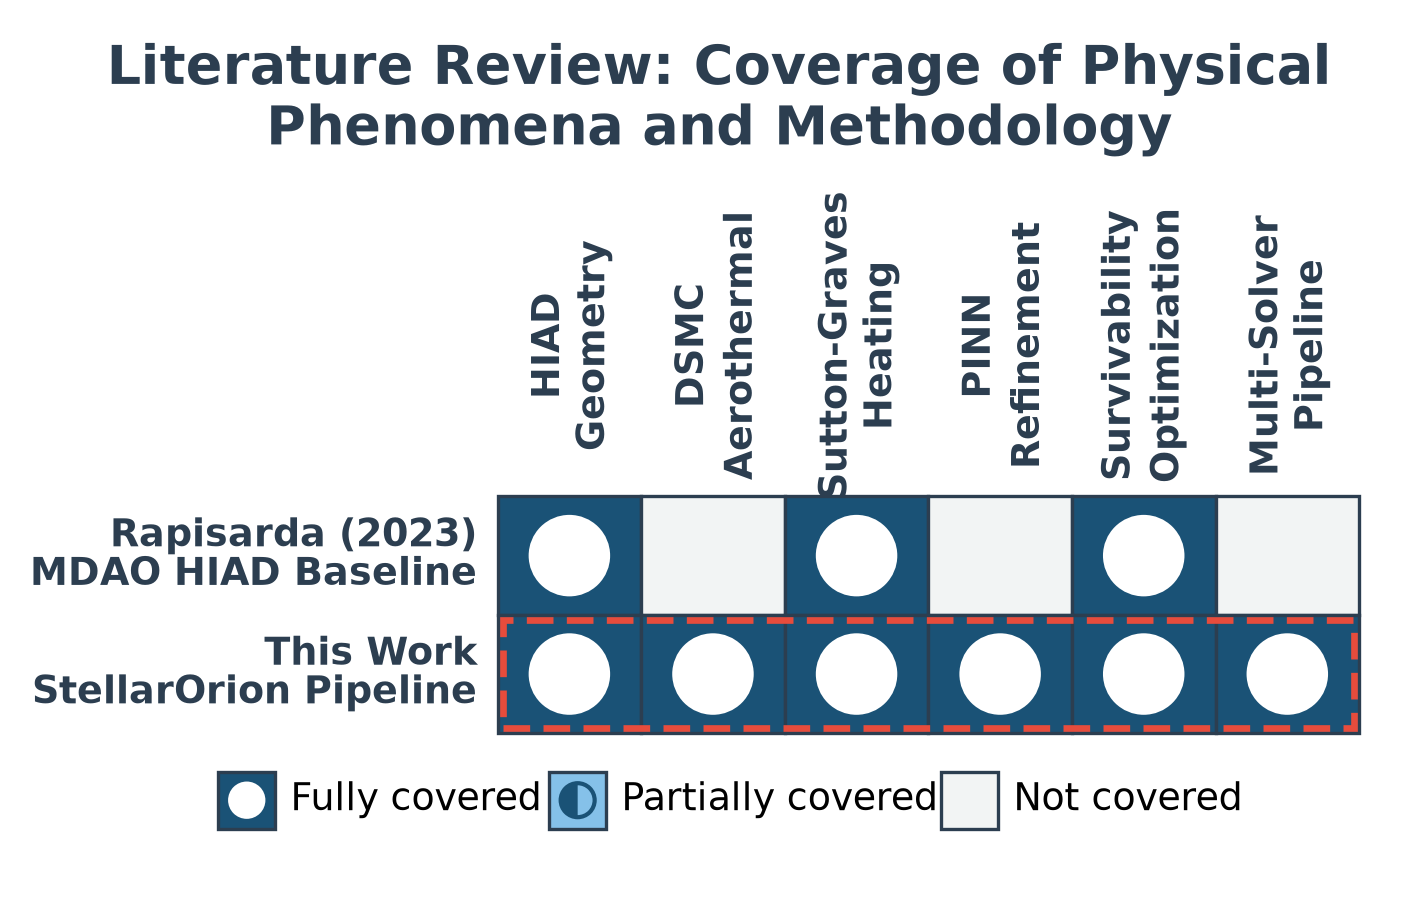
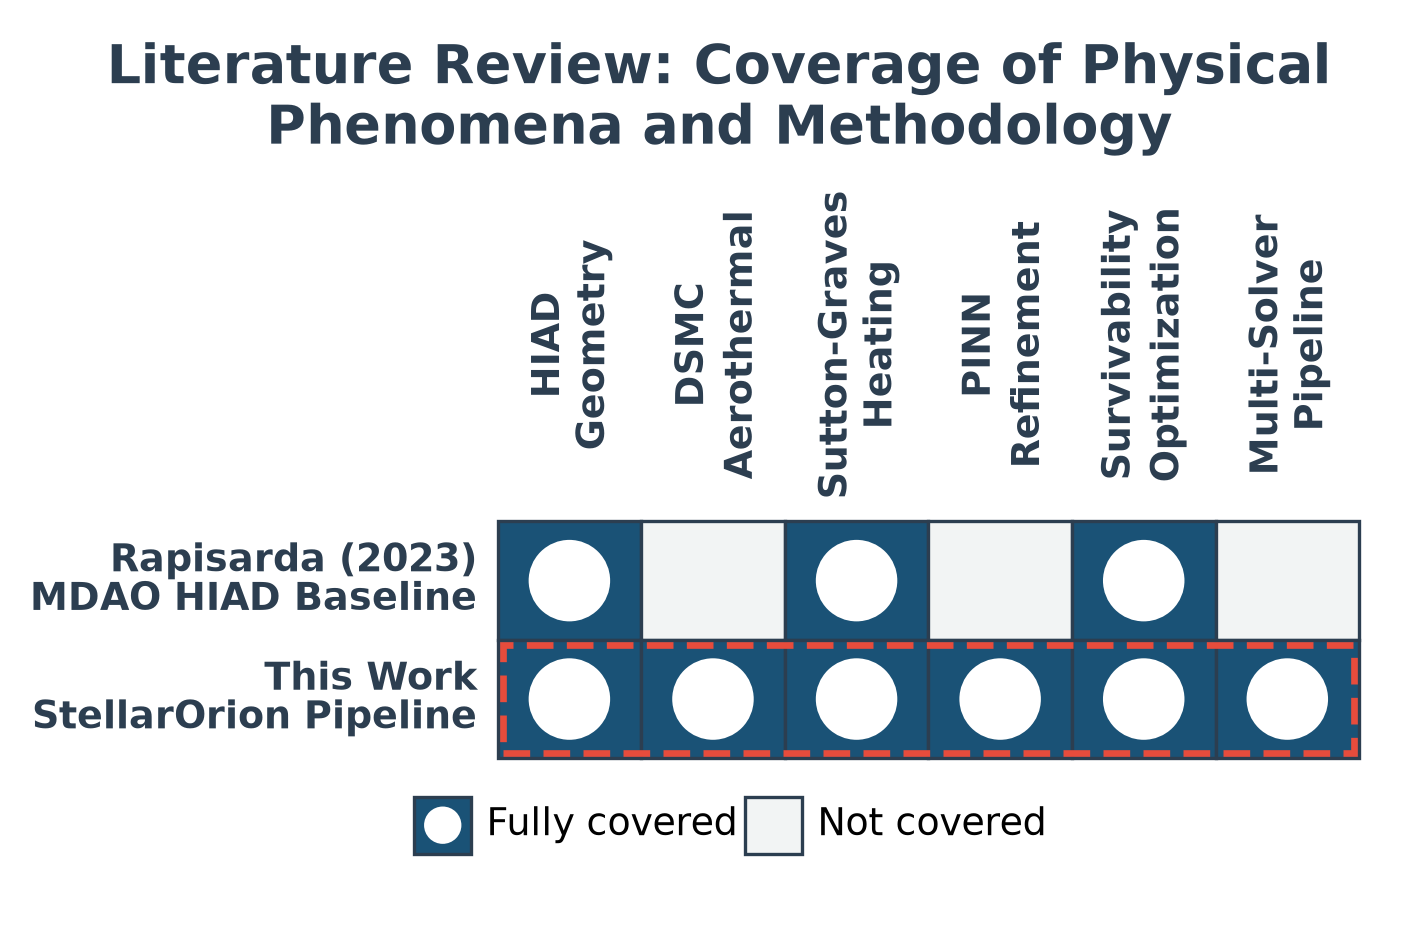
fix(thesis): A17 lit-review map legend cleanup + header clearance

diff --git a/Lost+Found/ProgressReport/CurrentThesisFinalReport/figures/make_lit_review_map.py b/Lost+Found/ProgressReport/CurrentThesisFinalReport/figures/make_lit_review_map.py
@@ -150,7 +150,11 @@ COVERAGE = (
     "FFFFFF",
 )
 
-LEGEND = (("Fully covered", "F"), ("Partially covered", "P"), ("Not covered", "."))
+# A17 LOW: the "Partially covered" swatch was dropped because COVERAGE uses
+# only the F and "." states (verified against the matrix: every cell is F or
+# "."), so the swatch advertised a state no cell can show. The P state stays
+# valid in the draw path and the documentation for future matrices.
+LEGEND = (("Fully covered", "F"), ("Not covered", "."))
 
 _SCRATCH: plt.Figure | None = None
 
@@ -272,7 +276,12 @@ def build() -> plt.Figure:
     matrix_h = row_h * len(ROWS)
     # The legend gutter is part of the height budget, so the band below the
     # matrix is exactly LEGEND_GAP plus one legend band.
-    height = (margin + title_h + 0.06 + header_h + 0.05 + matrix_h
+    # A17 LOW: the clearance under the header band was 0.05 in, but the measured
+    # rotated two-line headers exceeded the text_w_in single-line band estimate
+    # by about 0.19 in, so the widest header's ink landed 2 px above the matrix
+    # top gridline on the shipped render. The clearance is widened to 0.15 in,
+    # which the offset measurement says leaves about 0.11 in of true gap.
+    height = (margin + title_h + 0.06 + header_h + 0.15 + matrix_h
               + LEGEND_GAP + LEGEND_BAND + margin)
 
     print(f"  canvas {PRINT_W_IN:.3f} x {height:.3f} in   label column {label_w:.3f} in"
@@ -295,7 +304,7 @@ def build() -> plt.Figure:
 
     header_top = height - margin - title_h - 0.06
     header_mid = header_top - header_h / 2.0
-    matrix_top = header_top - header_h - 0.05
+    matrix_top = header_top - header_h - 0.15
     mx0 = margin + label_w + 0.08
     mark_r = 0.33 * min(col_w, row_h)
 

diff --git a/Lost+Found/ProgressReport/CurrentThesisFinalReport/PlotGeneratorFixNotes.md b/Lost+Found/ProgressReport/CurrentThesisFinalReport/PlotGeneratorFixNotes.md
@@ -443,6 +443,23 @@ the thesis, so it was not installed.
 
 ---
 
+*Disposition (2026-10-13):* BOTH FIXED in `make_lit_review_map.py`.
+Legend: `LEGEND` loses the ("Partially covered", "P") entry because COVERAGE =
+("F.F.F.", "FFFFFF") uses only the F and "." states, so the swatch advertised a
+state no cell can show; the P state stays valid in the draw path and the
+documentation for future matrices (the draw-path branch and the state-set
+assertion are unchanged). Header clearance: the chain cleared the header band
+by 0.05 in (`header_h + 0.05` in the height budget and the same 0.05 in
+`matrix_top`), but the widest rotated two-line header's true extent exceeds
+the single-line `text_w_in` band estimate by about 0.19 in, and the pixel
+probe on the shipped render measured the header ink bottom at y = 493 against
+the matrix top gridline at y = 495, a 2 px touch. Both constants move
+0.05 to 0.15, leaving about 0.11 in of true clearance. Regen: RC=0, 1401x935
+px, print 4.657 in, scale 0.997 (smallest declared 9.0 pt = 8.98 pt printed,
+floor 8.0 pt), PNG 128734 B, shasum256 5c9dcf92c6861a1b. Visual PASS: two-entry
+legend (filled Fully covered, hollow Not covered), all six rotated headers
+clear of the matrix strip with visible margin, This Work highlight box intact.
+
 ## B. Regenerate-from-official-run items
 
 After the Section A content fixes (A14, A15) are applied, regenerate both figures
